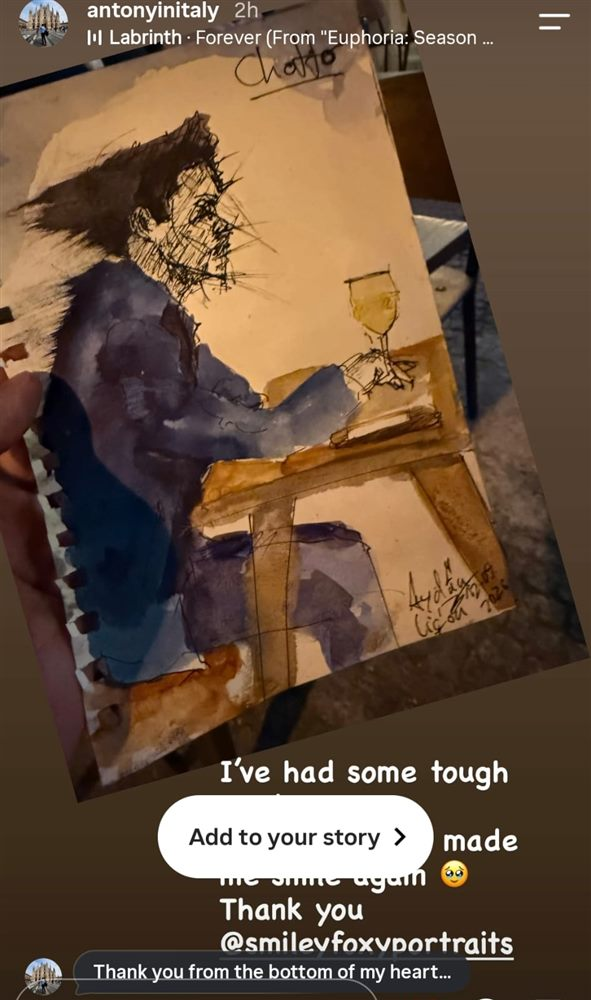
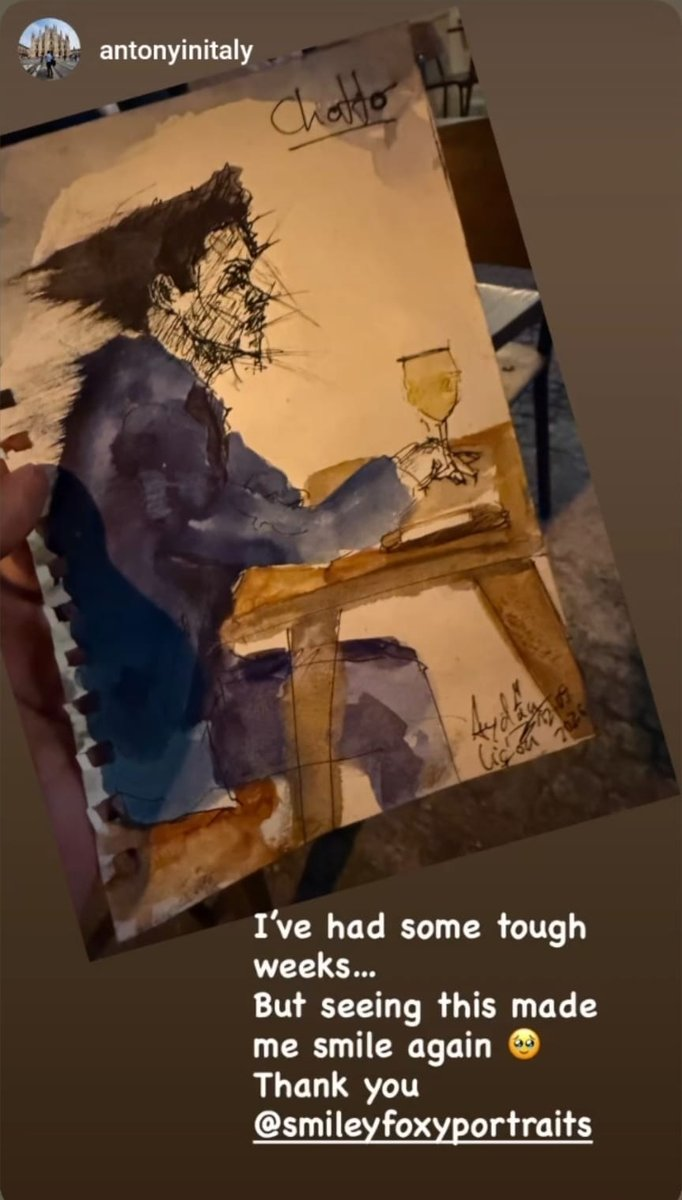
Galerie + new concert sketches + cleaner gratitude screenshot
- Homepage Galerie (1–15): 01 = A4 example sketch; 03–10 = A5 sketches from my
  stand, marked "Platzhalter · Promi-Zeichnung in Arbeit" (placeholders for the
  celebrity drawings I'm working on); 02, 11–15 stay numbered placeholders
- Über mich / About: four new concert series (band-24 … band-40):
  support act + main band at Schokoladen (5.11.2026), concert 5.10.2026,
  ink & water smeared with a sponge
- "Warum ich das mache": story screenshot without the "Add to your story" overlay
- Images resized to max 1600 px, metadata (EXIF/GPS) stripped

diff --git a/index.html b/index.html
@@ -128,18 +128,20 @@
 					<h2 id="gallery-title">Meine Kunst</h2>
 				</div>
 				<div data-lightbox>
-				<!-- PICTURES 1–15: always visible -->
+				<!-- PICTURES 1–15: always visible. 01 = A4 example. 03–10 = A5 sketches from my stand, marked as PLACEHOLDERS
+				     (class="is-placeholder" + gallery-tag) until the celebrity drawings I'm working on are done – then replace the file
+				     and remove class, data-caption and the <span class="gallery-tag">. -->
 				<div class="gallery-grid">
-					<a href="/img/galerie/galerie-01.jpg" data-n="01"><img src="/img/galerie/galerie-01.jpg" alt="Kunstwerk 01 (Platzhalter – Beschreibung eintragen)" loading="lazy" decoding="async" onerror="this.parentNode.classList.add('is-empty')"></a>
+					<a href="/img/galerie/galerie-01.jpg" data-n="01"><img src="/img/galerie/galerie-01.jpg" alt="A4-Porträt in Tusche: junger Mann mit Locken, Beispiel-Skizze von meinem Stand draußen" loading="lazy" decoding="async" onerror="this.parentNode.classList.add('is-empty')"></a>
 					<a href="/img/galerie/galerie-02.jpg" data-n="02"><img src="/img/galerie/galerie-02.jpg" alt="Kunstwerk 02 (Platzhalter – Beschreibung eintragen)" loading="lazy" decoding="async" onerror="this.parentNode.classList.add('is-empty')"></a>
-					<a href="/img/galerie/galerie-03.jpg" data-n="03"><img src="/img/galerie/galerie-03.jpg" alt="Kunstwerk 03 (Platzhalter – Beschreibung eintragen)" loading="lazy" decoding="async" onerror="this.parentNode.classList.add('is-empty')"></a>
-					<a href="/img/galerie/galerie-04.jpg" data-n="04"><img src="/img/galerie/galerie-04.jpg" alt="Kunstwerk 04 (Platzhalter – Beschreibung eintragen)" loading="lazy" decoding="async" onerror="this.parentNode.classList.add('is-empty')"></a>
-					<a href="/img/galerie/galerie-05.jpg" data-n="05"><img src="/img/galerie/galerie-05.jpg" alt="Kunstwerk 05 (Platzhalter – Beschreibung eintragen)" loading="lazy" decoding="async" onerror="this.parentNode.classList.add('is-empty')"></a>
-					<a href="/img/galerie/galerie-06.jpg" data-n="06"><img src="/img/galerie/galerie-06.jpg" alt="Kunstwerk 06 (Platzhalter – Beschreibung eintragen)" loading="lazy" decoding="async" onerror="this.parentNode.classList.add('is-empty')"></a>
-					<a href="/img/galerie/galerie-07.jpg" data-n="07"><img src="/img/galerie/galerie-07.jpg" alt="Kunstwerk 07 (Platzhalter – Beschreibung eintragen)" loading="lazy" decoding="async" onerror="this.parentNode.classList.add('is-empty')"></a>
-					<a href="/img/galerie/galerie-08.jpg" data-n="08"><img src="/img/galerie/galerie-08.jpg" alt="Kunstwerk 08 (Platzhalter – Beschreibung eintragen)" loading="lazy" decoding="async" onerror="this.parentNode.classList.add('is-empty')"></a>
-					<a href="/img/galerie/galerie-09.jpg" data-n="09"><img src="/img/galerie/galerie-09.jpg" alt="Kunstwerk 09 (Platzhalter – Beschreibung eintragen)" loading="lazy" decoding="async" onerror="this.parentNode.classList.add('is-empty')"></a>
-					<a href="/img/galerie/galerie-10.jpg" data-n="10"><img src="/img/galerie/galerie-10.jpg" alt="Kunstwerk 10 (Platzhalter – Beschreibung eintragen)" loading="lazy" decoding="async" onerror="this.parentNode.classList.add('is-empty')"></a>
+					<a class="is-placeholder" href="/img/galerie/galerie-03.jpg" data-n="03" data-caption="Fineliner-Skizzen von Menschen beim Konzert – Platzhalter: A5-Skizze von meinem Stand – hier kommt bald eine Promi-Zeichnung, an der ich gerade arbeite."><img src="/img/galerie/galerie-03.jpg" alt="Fineliner-Skizzen von Menschen beim Konzert (Platzhalter: A5-Skizze von meinem Stand – hier kommt bald eine Promi-Zeichnung, an der ich gerade arbeite.)" loading="lazy" decoding="async" onerror="this.parentNode.classList.add('is-empty')"><span class="gallery-tag">Platzhalter · Promi-Zeichnung in Arbeit</span></a>
+					<a class="is-placeholder" href="/img/galerie/galerie-04.jpg" data-n="04" data-caption="Fineliner & Aquarell: Frau mit lila Haaren – Platzhalter: A5-Skizze von meinem Stand – hier kommt bald eine Promi-Zeichnung, an der ich gerade arbeite."><img src="/img/galerie/galerie-04.jpg" alt="Fineliner & Aquarell: Frau mit lila Haaren (Platzhalter: A5-Skizze von meinem Stand – hier kommt bald eine Promi-Zeichnung, an der ich gerade arbeite.)" loading="lazy" decoding="async" onerror="this.parentNode.classList.add('is-empty')"><span class="gallery-tag">Platzhalter · Promi-Zeichnung in Arbeit</span></a>
+					<a class="is-placeholder" href="/img/galerie/galerie-05.jpg" data-n="05" data-caption="Tusche & roter Fineliner: Person am Tisch – Platzhalter: A5-Skizze von meinem Stand – hier kommt bald eine Promi-Zeichnung, an der ich gerade arbeite."><img src="/img/galerie/galerie-05.jpg" alt="Tusche & roter Fineliner: Person am Tisch (Platzhalter: A5-Skizze von meinem Stand – hier kommt bald eine Promi-Zeichnung, an der ich gerade arbeite.)" loading="lazy" decoding="async" onerror="this.parentNode.classList.add('is-empty')"><span class="gallery-tag">Platzhalter · Promi-Zeichnung in Arbeit</span></a>
+					<a class="is-placeholder" href="/img/galerie/galerie-06.jpg" data-n="06" data-caption="Fineliner & Marker: Frau mit Brille im Profil – Platzhalter: A5-Skizze von meinem Stand – hier kommt bald eine Promi-Zeichnung, an der ich gerade arbeite."><img src="/img/galerie/galerie-06.jpg" alt="Fineliner & Marker: Frau mit Brille im Profil (Platzhalter: A5-Skizze von meinem Stand – hier kommt bald eine Promi-Zeichnung, an der ich gerade arbeite.)" loading="lazy" decoding="async" onerror="this.parentNode.classList.add('is-empty')"><span class="gallery-tag">Platzhalter · Promi-Zeichnung in Arbeit</span></a>
+					<a class="is-placeholder" href="/img/galerie/galerie-07.jpg" data-n="07" data-caption="Aquarell: Mann im orangen Pulli – Platzhalter: A5-Skizze von meinem Stand – hier kommt bald eine Promi-Zeichnung, an der ich gerade arbeite."><img src="/img/galerie/galerie-07.jpg" alt="Aquarell: Mann im orangen Pulli (Platzhalter: A5-Skizze von meinem Stand – hier kommt bald eine Promi-Zeichnung, an der ich gerade arbeite.)" loading="lazy" decoding="async" onerror="this.parentNode.classList.add('is-empty')"><span class="gallery-tag">Platzhalter · Promi-Zeichnung in Arbeit</span></a>
+					<a class="is-placeholder" href="/img/galerie/galerie-08.jpg" data-n="08" data-caption="Oranger Sharpie: sitzende Person – Platzhalter: A5-Skizze von meinem Stand – hier kommt bald eine Promi-Zeichnung, an der ich gerade arbeite."><img src="/img/galerie/galerie-08.jpg" alt="Oranger Sharpie: sitzende Person (Platzhalter: A5-Skizze von meinem Stand – hier kommt bald eine Promi-Zeichnung, an der ich gerade arbeite.)" loading="lazy" decoding="async" onerror="this.parentNode.classList.add('is-empty')"><span class="gallery-tag">Platzhalter · Promi-Zeichnung in Arbeit</span></a>
+					<a class="is-placeholder" href="/img/galerie/galerie-09.jpg" data-n="09" data-caption="Fineliner, Tusche & gelber Marker: Mann im Profil – Platzhalter: A5-Skizze von meinem Stand – hier kommt bald eine Promi-Zeichnung, an der ich gerade arbeite."><img src="/img/galerie/galerie-09.jpg" alt="Fineliner, Tusche & gelber Marker: Mann im Profil (Platzhalter: A5-Skizze von meinem Stand – hier kommt bald eine Promi-Zeichnung, an der ich gerade arbeite.)" loading="lazy" decoding="async" onerror="this.parentNode.classList.add('is-empty')"><span class="gallery-tag">Platzhalter · Promi-Zeichnung in Arbeit</span></a>
+					<a class="is-placeholder" href="/img/galerie/galerie-10.jpg" data-n="10" data-caption="Fineliner, Aquarell & Marker: Person mit Mütze – Platzhalter: A5-Skizze von meinem Stand – hier kommt bald eine Promi-Zeichnung, an der ich gerade arbeite."><img src="/img/galerie/galerie-10.jpg" alt="Fineliner, Aquarell & Marker: Person mit Mütze (Platzhalter: A5-Skizze von meinem Stand – hier kommt bald eine Promi-Zeichnung, an der ich gerade arbeite.)" loading="lazy" decoding="async" onerror="this.parentNode.classList.add('is-empty')"><span class="gallery-tag">Platzhalter · Promi-Zeichnung in Arbeit</span></a>
 					<a href="/img/galerie/galerie-11.jpg" data-n="11"><img src="/img/galerie/galerie-11.jpg" alt="Kunstwerk 11 (Platzhalter – Beschreibung eintragen)" loading="lazy" decoding="async" onerror="this.parentNode.classList.add('is-empty')"></a>
 					<a href="/img/galerie/galerie-12.jpg" data-n="12"><img src="/img/galerie/galerie-12.jpg" alt="Kunstwerk 12 (Platzhalter – Beschreibung eintragen)" loading="lazy" decoding="async" onerror="this.parentNode.classList.add('is-empty')"></a>
 					<a href="/img/galerie/galerie-13.jpg" data-n="13"><img src="/img/galerie/galerie-13.jpg" alt="Kunstwerk 13 (Platzhalter – Beschreibung eintragen)" loading="lazy" decoding="async" onerror="this.parentNode.classList.add('is-empty')"></a>

diff --git a/about/index.html b/about/index.html
@@ -163,7 +163,7 @@
 			<section class="prose-section" id="warum">
 				<h2>Warum ich das mache</h2>
 				<div class="side-photo">
-					<img src="/img/fotos/dankbare-reaktion.jpg" alt="Instagram-Story einer gezeichneten Person, die sich bei SmileyFoxyPortraits für ihr Porträt bedankt" width="591" height="1000" loading="lazy" decoding="async">
+					<img src="/img/fotos/dankbare-reaktion.jpg" alt="Instagram-Story einer gezeichneten Person, die sich bei SmileyFoxyPortraits für ihr Porträt bedankt" width="682" height="1200" loading="lazy" decoding="async">
 					<p>
 						Manchmal zeichne ich jemanden ganz spontan – und Tage später bekomme ich so eine Nachricht.
 						Ein kleines Porträt kann einen schweren Tag ein bisschen leichter machen. Genau dafür mache ich das.
@@ -185,6 +185,32 @@
 					Klick auf ein Bild, um es groß zu sehen. Bilder mit ▣ sind kleine Serien zum Durchklicken.
 				</p>
 				<div class="band-grid" data-lightbox>
+					<!-- NEWEST (Oct/Nov 2026): batches 1–4, band-24 … band-40 -->
+					<div class="band-set" data-set>
+						<a href="/img/musik/band-24.jpg" data-caption="Vorband im Schokoladen, 5.11.2026"><img src="/img/musik/band-24-klein.jpg" alt="Konzertskizze der Vorband im Schokoladen in orangem Sharpie" width="600" height="600" loading="lazy" decoding="async"><span class="set-badge">▣ 3</span></a>
+						<a href="/img/musik/band-25.jpg" data-alt="Tusche & flüssige Tusche: Gitarrist der Vorband" data-caption="Tusche & flüssige Tusche: Gitarrist der Vorband · Vorband im Schokoladen, 5.11.2026" hidden></a>
+						<a href="/img/musik/band-26.jpg" data-alt="Oranger Marker: Schlagzeuger der Vorband" data-caption="Oranger Marker: Schlagzeuger der Vorband · Vorband im Schokoladen, 5.11.2026" hidden></a>
+					</div>
+					<div class="band-set" data-set>
+						<a href="/img/musik/band-29.jpg" data-caption="Hauptband im Schokoladen, 5.11.2026 – Tusche & oranger Marker"><img src="/img/musik/band-29-klein.jpg" alt="Tusche-Skizze eines Bassisten der Hauptband im Schokoladen" width="600" height="600" loading="lazy" decoding="async"><span class="set-badge">▣ 6</span></a>
+						<a href="/img/musik/band-27.jpg" data-alt="Tusche & oranger Marker: die Band auf der Bühne" data-caption="Tusche & oranger Marker: die Band auf der Bühne · Hauptband im Schokoladen, 5.11.2026 – Tusche & oranger Marker" hidden></a>
+						<a href="/img/musik/band-28.jpg" data-alt="Tusche-Skizze mit Schriftzug „Why do you think this’d be easy“" data-caption="Tusche-Skizze mit Schriftzug „Why do you think this’d be easy“ · Hauptband im Schokoladen, 5.11.2026 – Tusche & oranger Marker" hidden></a>
+						<a href="/img/musik/band-30.jpg" data-alt="Tusche & oranger Marker: Schlagzeuger" data-caption="Tusche & oranger Marker: Schlagzeuger · Hauptband im Schokoladen, 5.11.2026 – Tusche & oranger Marker" hidden></a>
+						<a href="/img/musik/band-31.jpg" data-alt="Alle Skizzen des Abends auf dem Tisch" data-caption="Alle Skizzen des Abends auf dem Tisch · Hauptband im Schokoladen, 5.11.2026 – Tusche & oranger Marker" hidden></a>
+						<a href="/img/musik/band-32.jpg" data-alt="Tusche-Skizze der ganzen Band" data-caption="Tusche-Skizze der ganzen Band · Hauptband im Schokoladen, 5.11.2026 – Tusche & oranger Marker" hidden></a>
+					</div>
+					<div class="band-set" data-set>
+						<a href="/img/musik/band-36.jpg" data-caption="Konzert, 5.10.2026 – Tusche & Wasser, mit dem Schwamm verwischt"><img src="/img/musik/band-36-klein.jpg" alt="Bassist in Tusche und Wasser, mit dem Schwamm verwischt" width="600" height="600" loading="lazy" decoding="async"><span class="set-badge">▣ 4</span></a>
+						<a href="/img/musik/band-33.jpg" data-alt="Sänger in verwischter Tusche" data-caption="Sänger in verwischter Tusche · Konzert, 5.10.2026 – Tusche & Wasser, mit dem Schwamm verwischt" hidden></a>
+						<a href="/img/musik/band-34.jpg" data-alt="Gitarrist in Tusche auf orange-braunem Grund" data-caption="Gitarrist in Tusche auf orange-braunem Grund · Konzert, 5.10.2026 – Tusche & Wasser, mit dem Schwamm verwischt" hidden></a>
+						<a href="/img/musik/band-35.jpg" data-alt="Die Skizzen des Abends nebeneinander im Bühnenlicht" data-caption="Die Skizzen des Abends nebeneinander im Bühnenlicht · Konzert, 5.10.2026 – Tusche & Wasser, mit dem Schwamm verwischt" hidden></a>
+					</div>
+					<div class="band-set" data-set>
+						<a href="/img/musik/band-39.jpg" data-caption="Hauptband im Schokoladen, 5.11.2026 – Tusche & Wasser, mit dem Schwamm verwischt"><img src="/img/musik/band-39-klein.jpg" alt="Musiker mit Brille in Tusche, im pinken Bühnenlicht" width="600" height="600" loading="lazy" decoding="async"><span class="set-badge">▣ 4</span></a>
+						<a href="/img/musik/band-38.jpg" data-alt="Gitarrist in verwischter Tusche, im blauen Licht" data-caption="Gitarrist in verwischter Tusche, im blauen Licht · Hauptband im Schokoladen, 5.11.2026 – Tusche & Wasser, mit dem Schwamm verwischt" hidden></a>
+						<a href="/img/musik/band-40.jpg" data-alt="Keyboarder in Tusche, auf dem Keyboard liegend" data-caption="Keyboarder in Tusche, auf dem Keyboard liegend · Hauptband im Schokoladen, 5.11.2026 – Tusche & Wasser, mit dem Schwamm verwischt" hidden></a>
+						<a href="/img/musik/band-37.jpg" data-alt="Selfie: ich und die Person, die ich gezeichnet habe" data-caption="Selfie: ich und die Person, die ich gezeichnet habe · Hauptband im Schokoladen, 5.11.2026 – Tusche & Wasser, mit dem Schwamm verwischt" hidden></a>
+					</div>
 					<div class="band-set" data-set>
 						<a href="/img/musik/band-8.jpg"><img src="/img/musik/band-8-klein.jpg" alt="Vier blaue Konzertskizzen" width="600" height="600" loading="lazy" decoding="async"><span class="set-badge">▣ 4</span></a>
 						<a href="/img/musik/band-9.jpg" data-alt="Blaue Tusche-Skizze mit Schriftzug" hidden></a>

diff --git a/en/about/index.html b/en/about/index.html
@@ -153,7 +153,7 @@
 			<section class="prose-section" id="warum">
 				<h2>Why I do this</h2>
 				<div class="side-photo">
-					<img src="/img/fotos/dankbare-reaktion.jpg" alt="Instagram story of someone I drew, thanking SmileyFoxyPortraits for their portrait" width="591" height="1000" loading="lazy" decoding="async">
+					<img src="/img/fotos/dankbare-reaktion.jpg" alt="Instagram story of someone I drew, thanking SmileyFoxyPortraits for their portrait" width="682" height="1200" loading="lazy" decoding="async">
 					<p>
 						Sometimes I draw someone completely spontaneously – and days later I get a message like this.
 						A small portrait can make a hard day a little lighter. That's exactly why I do this.
@@ -171,6 +171,32 @@
 					Click a picture to see it big. Pictures with ▣ are small series to click through.
 				</p>
 				<div class="band-grid" data-lightbox>
+					<!-- NEWEST (Oct/Nov 2026): batches 1–4, band-24 … band-40 -->
+					<div class="band-set" data-set>
+						<a href="/img/musik/band-24.jpg" data-caption="Support act at Schokoladen, 5 Nov 2026"><img src="/img/musik/band-24-klein.jpg" alt="Concert sketch of the support act at Schokoladen in orange Sharpie" width="600" height="600" loading="lazy" decoding="async"><span class="set-badge">▣ 3</span></a>
+						<a href="/img/musik/band-25.jpg" data-alt="Ink & liquid ink: the support act's guitarist" data-caption="Ink & liquid ink: the support act's guitarist · Support act at Schokoladen, 5 Nov 2026" hidden></a>
+						<a href="/img/musik/band-26.jpg" data-alt="Orange marker: the support act's drummer" data-caption="Orange marker: the support act's drummer · Support act at Schokoladen, 5 Nov 2026" hidden></a>
+					</div>
+					<div class="band-set" data-set>
+						<a href="/img/musik/band-29.jpg" data-caption="Main band at Schokoladen, 5 Nov 2026 – ink & orange marker"><img src="/img/musik/band-29-klein.jpg" alt="Ink sketch of the main band's bassist at Schokoladen" width="600" height="600" loading="lazy" decoding="async"><span class="set-badge">▣ 6</span></a>
+						<a href="/img/musik/band-27.jpg" data-alt="Ink & orange marker: the band on stage" data-caption="Ink & orange marker: the band on stage · Main band at Schokoladen, 5 Nov 2026 – ink & orange marker" hidden></a>
+						<a href="/img/musik/band-28.jpg" data-alt="Ink sketch with the words “Why do you think this'd be easy”" data-caption="Ink sketch with the words “Why do you think this'd be easy” · Main band at Schokoladen, 5 Nov 2026 – ink & orange marker" hidden></a>
+						<a href="/img/musik/band-30.jpg" data-alt="Ink & orange marker: the drummer" data-caption="Ink & orange marker: the drummer · Main band at Schokoladen, 5 Nov 2026 – ink & orange marker" hidden></a>
+						<a href="/img/musik/band-31.jpg" data-alt="All of the night's sketches on the table" data-caption="All of the night's sketches on the table · Main band at Schokoladen, 5 Nov 2026 – ink & orange marker" hidden></a>
+						<a href="/img/musik/band-32.jpg" data-alt="Ink sketch of the whole band" data-caption="Ink sketch of the whole band · Main band at Schokoladen, 5 Nov 2026 – ink & orange marker" hidden></a>
+					</div>
+					<div class="band-set" data-set>
+						<a href="/img/musik/band-36.jpg" data-caption="Concert, 5 Oct 2026 – ink & water, smeared with a sponge"><img src="/img/musik/band-36-klein.jpg" alt="Bassist in ink and water, smeared with a sponge" width="600" height="600" loading="lazy" decoding="async"><span class="set-badge">▣ 4</span></a>
+						<a href="/img/musik/band-33.jpg" data-alt="Singer in smeared ink" data-caption="Singer in smeared ink · Concert, 5 Oct 2026 – ink & water, smeared with a sponge" hidden></a>
+						<a href="/img/musik/band-34.jpg" data-alt="Guitarist in ink on an orange-brown ground" data-caption="Guitarist in ink on an orange-brown ground · Concert, 5 Oct 2026 – ink & water, smeared with a sponge" hidden></a>
+						<a href="/img/musik/band-35.jpg" data-alt="The night's sketches side by side in stage light" data-caption="The night's sketches side by side in stage light · Concert, 5 Oct 2026 – ink & water, smeared with a sponge" hidden></a>
+					</div>
+					<div class="band-set" data-set>
+						<a href="/img/musik/band-39.jpg" data-caption="Main band at Schokoladen, 5 Nov 2026 – ink & water, smeared with a sponge"><img src="/img/musik/band-39-klein.jpg" alt="Musician with glasses in ink, in pink stage light" width="600" height="600" loading="lazy" decoding="async"><span class="set-badge">▣ 4</span></a>
+						<a href="/img/musik/band-38.jpg" data-alt="Guitarist in smeared ink, in blue light" data-caption="Guitarist in smeared ink, in blue light · Main band at Schokoladen, 5 Nov 2026 – ink & water, smeared with a sponge" hidden></a>
+						<a href="/img/musik/band-40.jpg" data-alt="Keyboard player in ink, lying on the keyboard" data-caption="Keyboard player in ink, lying on the keyboard · Main band at Schokoladen, 5 Nov 2026 – ink & water, smeared with a sponge" hidden></a>
+						<a href="/img/musik/band-37.jpg" data-alt="Selfie: me and the person I drew" data-caption="Selfie: me and the person I drew · Main band at Schokoladen, 5 Nov 2026 – ink & water, smeared with a sponge" hidden></a>
+					</div>
 					<div class="band-set" data-set>
 						<a href="/img/musik/band-8.jpg"><img src="/img/musik/band-8-klein.jpg" alt="Four blue concert sketches" width="600" height="600" loading="lazy" decoding="async"><span class="set-badge">▣ 4</span></a>
 						<a href="/img/musik/band-9.jpg" data-alt="Blue ink sketch with lettering" hidden></a>

diff --git a/css/main.css b/css/main.css
@@ -1488,3 +1488,6 @@ h1, h2, h3 { overflow-wrap: break-word; hyphens: auto; }
 .gallery-more[open] > summary { margin-bottom: 0; }
 @media (max-width: 1000px) { .gallery-grid { grid-template-columns: repeat(3, 1fr); } }
 @media (max-width: 480px) { .gallery-grid { gap: 8px; } .gallery-grid a, .gallery-grid a::before { border-radius: 10px; } }
+/* Galerie tiles that hold a stand-in sketch until the real (celebrity) drawing is finished */
+.gallery-tag { position: absolute; z-index: 2; left: 8px; right: 8px; bottom: 8px; background: rgba(15, 12, 17, 0.8); color: #F2EAE4;
+	font-size: 0.72rem; font-weight: 700; line-height: 1.25; padding: 4px 8px; border-radius: 8px; text-align: center; }
